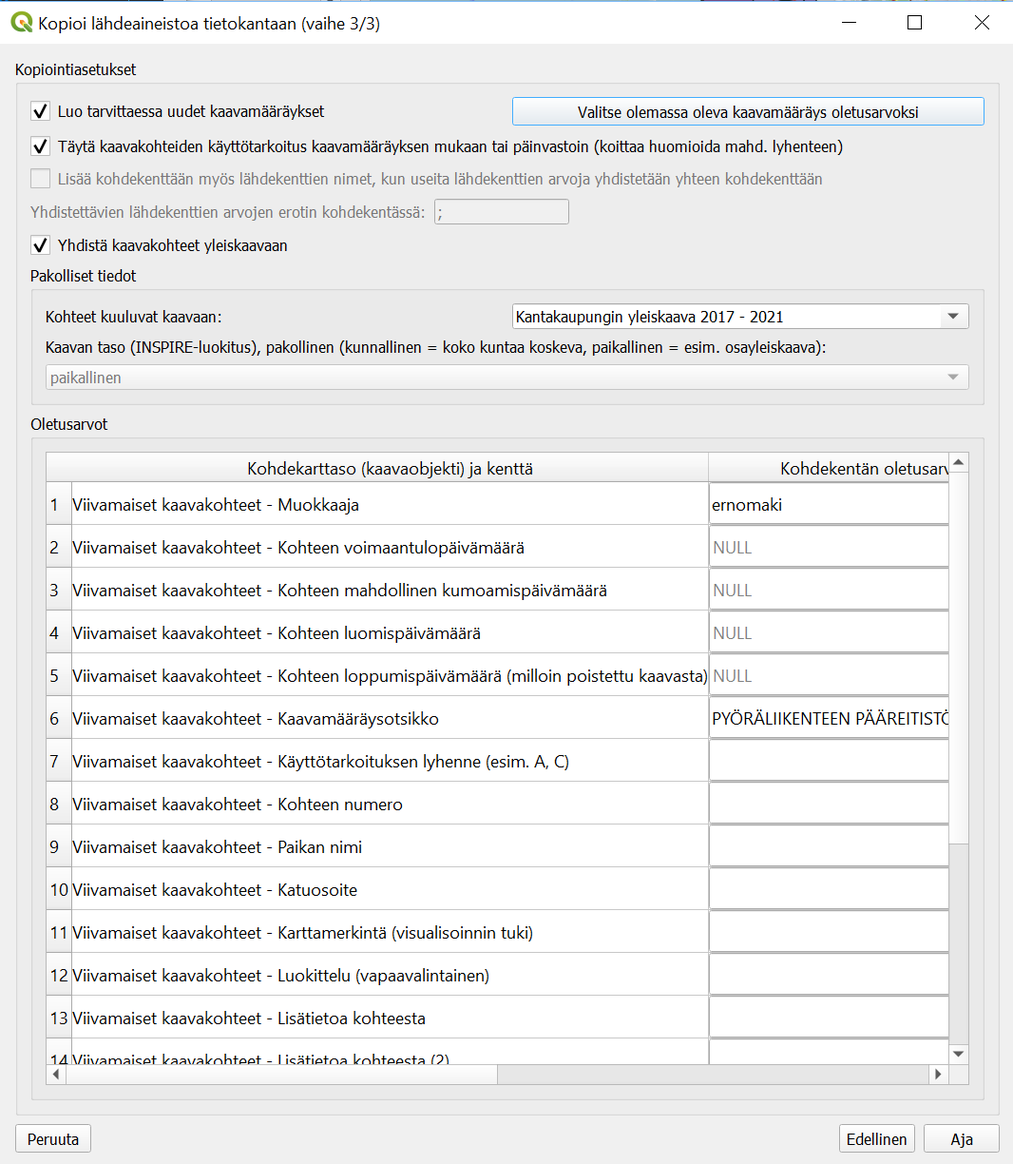
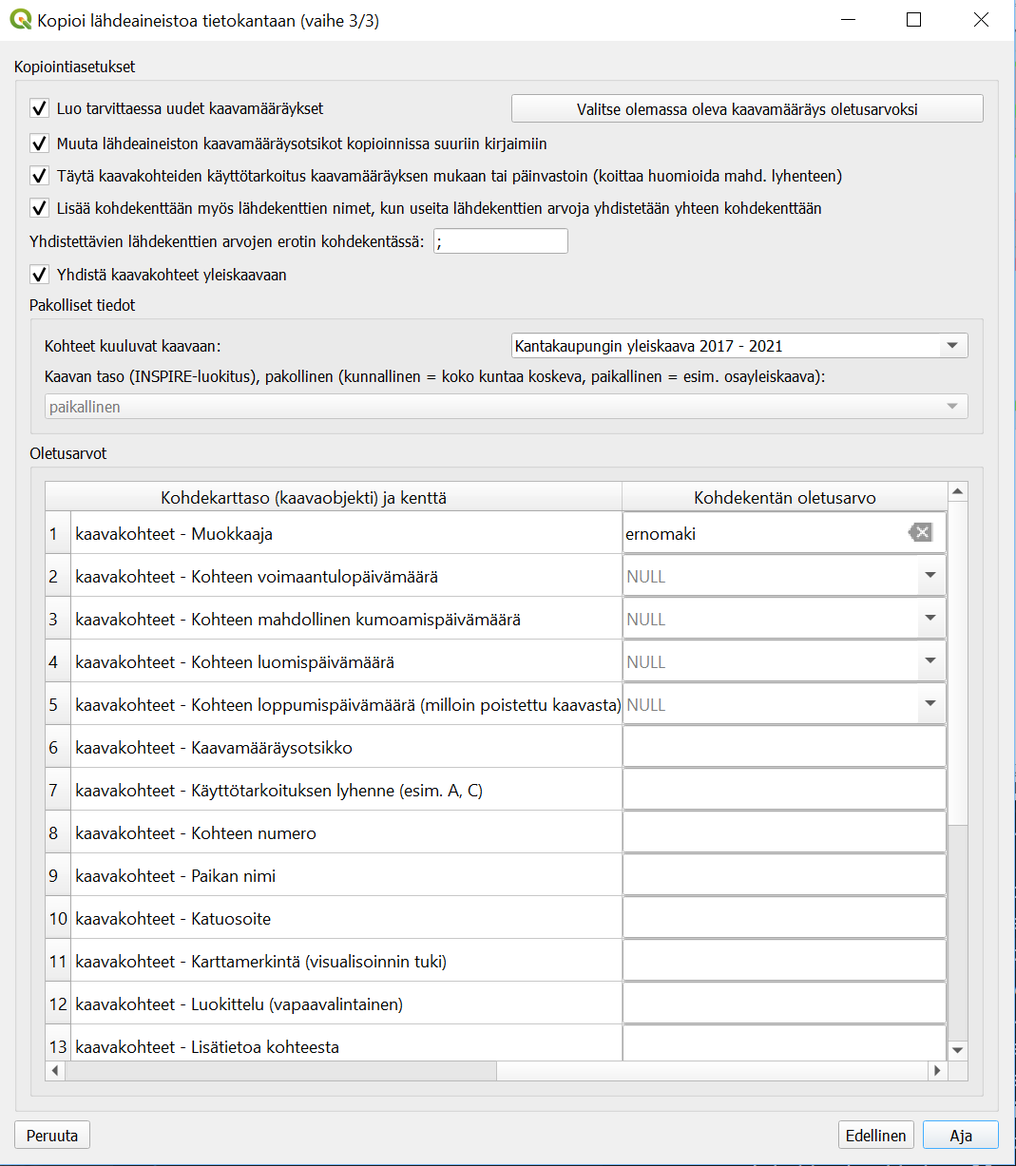
Paranna ohjeita

diff --git a/help/build/html/searchindex.js b/help/build/html/searchindex.js
@@ -1,1 +1,1 @@
-Search.setIndex({docnames:["index"],envversion:{"sphinx.domains.c":2,"sphinx.domains.changeset":1,"sphinx.domains.citation":1,"sphinx.domains.cpp":3,"sphinx.domains.index":1,"sphinx.domains.javascript":2,"sphinx.domains.math":2,"sphinx.domains.python":2,"sphinx.domains.rst":2,"sphinx.domains.std":1,"sphinx.ext.todo":2,"sphinx.ext.viewcode":1,sphinx:56},filenames:["index.rst"],objects:{},objnames:{},objtypes:{},terms:{"edell\u00e4":0,"edellytt\u00e4\u00e4":0,"edellytt\u00e4v\u00e4t":0,"esimerkiss\u00e4":0,"et\u00e4isyydelt\u00e4":0,"ett\u00e4":0,"hetkell\u00e4":0,"hyv\u00e4":0,"indeksiss\u00e4":0,"j\u00e4lkeen":0,"j\u00e4lkeisten":0,"j\u00e4t\u00e4t":0,"k\u00e4sittelyj\u00e4":0,"k\u00e4yt\u00f6ss\u00e4":0,"k\u00e4yt\u00f6st\u00e4":[],"k\u00e4ytt\u00e4j\u00e4":0,"k\u00e4ytt\u00e4j\u00e4lt\u00e4":[],"k\u00e4ytt\u00e4j\u00e4n":[],"k\u00e4ytt\u00e4m\u00e4\u00e4n":0,"k\u00e4ytt\u00e4misen":0,"k\u00e4ytt\u00e4v\u00e4t":0,"k\u00e4ytt\u00f6liittym\u00e4st\u00e4":0,"k\u00e4ytt\u00f6tarkoitu":0,"k\u00e4ytt\u00f6tarkoitukseen":0,"k\u00e4ytt\u00f6tarkoituksen":0,"k\u00e4ytt\u00f6tarkoitukset":0,"k\u00e4ytt\u00f6tarkoitusalueiden":0,"k\u00e4ytt\u00f6tarkoituslyhenteen":[],"k\u00e4ytt\u00f6tarkoituslyheteen":[],"k\u00e4ytt\u00f6tarkoitustyyppien":0,"kaavam\u00e4\u00e4r\u00e4i":0,"kaavam\u00e4\u00e4r\u00e4yksen":[],"kaavam\u00e4\u00e4r\u00e4ykset":0,"kaavam\u00e4\u00e4r\u00e4yksi\u00e4":0,"kaavam\u00e4\u00e4r\u00e4ysotsikkoa":0,"kaavam\u00e4\u00e4r\u00e4yst\u00e4":0,"kaavam\u00e4\u00e4r\u00e4ysten":0,"kent\u00e4n":0,"kent\u00e4t":0,"kentt\u00e4":0,"kohdekent\u00e4n":0,"kohdekent\u00e4t":0,"kohdekentt\u00e4\u00e4n":0,"konsultointivy\u00f6hykkeill\u00e4":0,"koordinaattij\u00e4rjestelm\u00e4":0,"koordinaattij\u00e4rjestelm\u00e4st\u00e4":0,"kyll\u00e4":0,"l\u00e4hdeaineiston":0,"l\u00e4hdekarttataso":0,"l\u00e4hdekarttatason":0,"l\u00e4hdekarttatasosta":0,"l\u00e4hdekent\u00e4n":0,"l\u00e4hdekentt\u00e4\u00e4":0,"l\u00e4hderajapinnan":0,"l\u00e4hdetason":0,"l\u00e4hdetaulusta":0,"l\u00e4hdetietoja":0,"l\u00e4hdetietosivulta":0,"l\u00e4ht\u00f6aineistokohteen":0,"l\u00e4ht\u00f6aineistokohteeseen":0,"l\u00e4ht\u00f6aineistolinkin":0,"l\u00e4ht\u00f6aineistolinkkien":0,"l\u00f6ytyi":0,"l\u00f6ytyv\u00e4":0,"liitty\u00e4":0,"liittyv\u00e4":0,"liittyv\u00e4n":0,"liittyv\u00e4t":0,"lis\u00e4\u00e4minen":0,"lis\u00e4ksi":0,"lis\u00e4t\u00e4":0,"lis\u00e4t\u00e4\u00e4n":0,"m\u00e4\u00e4ritellylt\u00e4":0,"muinaisj\u00e4\u00e4nn\u00f6skohteiden":0,"muinaisj\u00e4\u00e4nn\u00f6skohteilla":0,"my\u00f6":0,"my\u00f6hemmin":0,"n\u00e4et":0,"n\u00e4it\u00e4":0,"n\u00e4yt\u00e4":[],"niit\u00e4":0,"nime\u00e4\u00e4":0,"nimet\u00e4":0,"nimill\u00e4":0,"p\u00e4\u00e4limm\u00e4isin\u00e4":0,"p\u00e4ivit\u00e4":[],"p\u00e4ivitet\u00e4\u00e4n":0,"p\u00e4ivitett\u00e4v\u00e4t":0,"p\u00e4ivitt\u00e4\u00e4":0,"p\u00e4ivityksen":0,"p\u00e4ivityksess\u00e4":0,"p\u00e4ivitykset":0,"p\u00e4ivitystilann":0,"p\u00e4ivtyksen":0,"pidet\u00e4\u00e4nk\u00f6":0,"pistem\u00e4iset":0,"pit\u00e4\u00e4":0,"pit\u00e4isi":0,"pysty\u00e4":0,"s\u00e4ilym\u00e4\u00e4n":0,"s\u00e4ilyminen":0,"s\u00e4ilyt\u00e4":0,"s\u00e4ilytt\u00e4\u00e4":0,"s\u00e4ilytt\u00e4v\u00e4t":0,"sek\u00e4":0,"sill\u00e4":0,"sis\u00e4inen":0,"sis\u00e4ll\u00e4":0,"sit\u00e4":0,"st\u00e4":0,"t\u00e4ll\u00e4":0,"t\u00e4m\u00e4":0,"t\u00e4m\u00e4n":0,"t\u00e4ss\u00e4":0,"t\u00e4st\u00e4":0,"t\u00e4ydent\u00e4v\u00e4t":0,"t\u00e4ydent\u00e4vil":0,"tehd\u00e4":0,"tehd\u00e4\u00e4n":0,"tehd\u00e4\u00e4nk\u00f6":0,"teht\u00e4v\u00e4n":[],"teht\u00e4v\u00e4t":[],"tehtyj\u00e4":0,"tekem\u00e4t":0,"tekemem\u00e4st\u00e4":0,"tietyill\u00e4":0,"ty\u00f6kalu":0,"ty\u00f6tilaan":0,"ty\u00f6tilan":0,"ty\u00f6tilassa":0,"ty\u00f6tilasta":0,"tyhj\u00e4ksi":0,"v\u00e4hemm\u00e4n":0,"v\u00e4liin":0,"vieress\u00e4":0,"yhdist\u00e4\u00e4":0,"yleisi\u00e4":0,Jos:0,aakkosilla:0,aiheuttamat:[],aina:0,ainakin:0,aineistoa:0,aja:0,ajamisen:[],ajolla:[],aktivoitu:0,alkaa:0,aloittaaksesi:0,alueet:0,aluekohteet:0,aluekohteil:0,aluevaraukset:0,aluevarauksil:0,aluevarausten:0,alunperin:0,annetaan:0,arvo:0,arvoa:0,arvoja:[],arvon:0,arvot:0,asetettavat:0,asetettu:0,asettaa:0,asettanut:0,asetu:0,asetuksella:0,asetuksen:0,asetuksia:0,asetusta:0,attribuuttitailut:0,attribuuttitaulujen:0,attribuuttitaulun:0,attribuuttitaulusta:0,aukeaa:0,automaattinen:0,automaattisen:0,automaattisesti:0,avaa:0,avaamalla:0,avaamisen:0,avaamista:0,avaat:0,avannut:0,avattuna:0,avatuvien:0,avautuvasta:0,avulla:0,content:[],dialogi:0,dialogin:0,dialogissa:0,dialogista:0,dialogit:0,dokumentoida:0,edistymisen:0,eli:0,ennen:0,ensiksi:0,erilailla:0,erota:0,esim:0,esimerkiksi:0,esitetti:0,geometrisessa:0,haetaan:0,haluamansa:0,haluamiaan:0,haluamillesi:0,haluat:0,halutaan:0,halutesaan:0,halutessa:0,halutessasi:0,halutul:0,halutun:0,halutut:[],havaitse:0,hieman:0,huomaa:0,huomattu:0,huomioida:0,huomioidaan:0,huomioita:0,hyvin:0,ilmoitu:0,indeksi:0,indeksoinnin:0,indeksointeja:0,indeksointi:0,indeksoitujen:0,index:[],infoikkunasta:0,jaa:0,jaetuilla:0,jakaa:0,jakamisen:0,jakamisessa:0,jakamista:0,jako:0,jaon:0,johon:0,johonkin:0,joiden:0,joihin:0,joilloin:[],joitakin:0,joka:0,joll:0,jolla:0,jolloin:0,jolta:0,jos:0,jossa:0,jotkin:0,kaavakohd:0,kaavakohdekarttatasot:0,kaavakohdetasojen:0,kaavakohdetason:0,kaavakohteel:0,kaavakohteen:0,kaavakohteeseen:0,kaavakohteesta:0,kaavakohteet:0,kaavakohteiden:[],kaavakohteil:0,kaavakohteilla:0,kaavakohteilta:0,kaavakohteista:0,kaavamaaraysotsikko:0,kaavan:0,kaavaobjekti_kaavamaarays_yhtei:0,kaavatasol:0,kaikilla:0,kaikkea:0,kaksi:0,karttasolla:0,karttatasoja:0,karttatasojen:0,karttatasol:0,karttatasot:0,kasvattaa:0,katsoa:0,kautta:0,kayttotarkoitus_lyhenn:0,kemikaalilaitosten:0,kentil:0,kerralla:0,kirjaimesta:0,klikkaa:0,klikkaat:0,kohdasta:0,kohdekaavakohdetaulu:0,kohdekarttatasojen:0,kohdetaulujen:0,kohdetaulun:0,kohdetauluun:0,kohdetyypil:0,kohta:0,kohtaa:0,kohteel:0,kohteella:0,kohteen:0,kohteet:0,kohteiden:0,kohteil:0,kohteilla:0,kohteita:0,kohten:0,koitetaan:0,kokonaislukuindeksointi:0,kokonaisluvuilla:0,kopioida:0,kopioinnin:0,kopioinnissa:0,kopiointi:[],kopiointiasetuksia:0,kopioitavat:0,kopion:[],kopionti:0,koska:0,kuin:0,kuitenkaan:0,kuitenkin:0,kumoa:0,kun:0,kunkin:0,kuten:0,kuvassa:0,kuvattu:0,kuvauksen:0,leikkau:0,liittyi:0,listaa:0,lkm:0,loppuosa:0,luultavasti:0,lyhenn:0,lyhenteen:0,mahdollinen:0,mahdollisesti:0,mahdollista:0,mainituilla:0,miten:0,modul:[],muiden:0,muita:0,mukaan:0,mukaiset:0,mukana:0,muokattavien:0,muokkaa:0,muokkaukset:0,muokkauksia:0,mutta:0,muunnoksen:0,muutokset:[],muutoksia:0,niill:0,niin:0,nimi:0,normaalisti:0,numero:0,ohjeen:0,ohjeessa:0,ole:0,olet:0,olettaa:0,oletusarvon:0,oletusarvot:0,oleva:0,olevan:0,olevat:0,olevista:0,olisi:0,olla:0,ominaisuudella:0,ominaisuudet:0,ominaisuustietojen:0,onnistu:0,onnistuu:0,osa:0,osalta:0,otsikko:0,otsikon:0,ottaa:[],ovat:0,page:[],painaessa:0,painamista:0,painiketta:0,painikkeella:0,painikkeen:0,painikkeiden:0,painikkeilla:0,paitsi:[],pakollisil:0,paljon:0,pane:0,paneelin:0,paneelinen:0,paneelissa:0,perua:0,perusteella:0,piilossa:0,piilotettujakin:0,pistekohteil:0,poi:0,poista:0,poistaa:0,poistetaan:0,qgi:0,rajapinnalta:0,relaatioiden:0,relaatiot:0,riippuen:0,saa:0,saat:0,saattaa:0,samaan:0,samalla:0,samassa:0,search:[],sen:0,seuraa:0,seuraava:0,seuraavien:0,seuraavin:0,seurauksena:0,sii:0,siiri:0,sijaan:0,sijaitsevat:0,siksi:0,sill:0,silloin:0,silti:0,sitten:0,sm8:0,sulkea:0,suodatettu:0,suodattaa:0,suoraan:0,syntyneel:0,tai:0,tallennettu:0,tallennuksesta:0,tallentamista:0,tapaan:0,tapahdu:0,tapahtuu:0,tapahtuva:0,tapauksessa:0,tarkempia:0,tarkistaa:[],tarvits:0,tarvittaessa:0,tasoja:0,tasolla:0,tason:0,taulujen:0,taulun:0,taulussa:0,taulut:0,tee:0,teema:0,teemankin:0,teemat:0,teke:0,teknisesti:0,tekstin:0,tiedot:0,tietoja:0,tietokannan:0,tietokantayhtei:0,tietyn:0,tilanteessa:0,toimi:0,toimii:0,toiminnoista:0,toiminnolla:0,toiminnon:0,toiminnosta:0,toiminto:0,toimintoihin:0,toimintojen:0,toimitaan:0,toimivat:0,tosin:0,tulleita:0,tyylin:0,tyypit:0,useamman:0,usein:0,useita:0,uudel:0,uudelleen:0,uudet:0,uusi:0,uusia:0,uusil:0,vai:0,vaihein:0,vaihtaa:0,vaikka:0,vaikkapa:0,vaikuttaa:0,vaikutusta:0,vain:0,vakioalku:0,vakioalkuosa:0,valikon:0,valinnan:0,valinnut:0,valinta:0,valintaruutu:0,valita:0,valitaan:0,valits:0,valitse:0,valitsematta:0,valitsemiltasi:0,valittu:0,valittuasi:0,valituil:0,valituilla:0,valituksi:0,valmi:0,vanhat:0,vapaasti:0,varmasti:0,varmistaa:0,varmistetaan:[],varoittaa:0,vasta:0,vastaava:0,vastaavan:0,viiva:0,viivamaiset:0,visualisoida:0,visualisointityyli:0,voi:0,voidaan:[],voit:0,vuoksi:0,yhden:0,yhdistetyn:0,yhteensopivia:0,yleiskaaval:0,yleiskaavan:0},titles:["Yleiskaava-ty\u00f6kalun ohjeistus"],titleterms:{"kaaavam\u00e4\u00e4r\u00e4yksen":[],"kaavam\u00e4\u00e4r\u00e4yksen":0,"l\u00e4hdeaineistoa":0,"l\u00e4ht\u00f6aineistoihin":0,"liitt\u00e4minen":0,"linkkej\u00e4":0,"lis\u00e4\u00e4":0,"p\u00e4ivit\u00e4":0,"p\u00e4iviti":0,"ty\u00f6kalun":0,arvoja:0,asetukset:0,dokumentaatioon:[],geometrinen:0,indeksointia:0,indic:[],jakaminen:0,joukol:0,kaavakohdetasolla:0,kaavakohteiden:0,kaavakohteita:0,kenttien:0,kopioi:0,kopiointi:0,muokkau:0,ohj:0,ohjeistu:0,tabl:[],teeman:0,tervetuloa:[],tietokantaan:0,toiminnot:0,vaihda:0,yleiskaava:0}})
+Search.setIndex({docnames:["index"],envversion:{"sphinx.domains.c":2,"sphinx.domains.changeset":1,"sphinx.domains.citation":1,"sphinx.domains.cpp":3,"sphinx.domains.index":1,"sphinx.domains.javascript":2,"sphinx.domains.math":2,"sphinx.domains.python":2,"sphinx.domains.rst":2,"sphinx.domains.std":1,"sphinx.ext.todo":2,"sphinx.ext.viewcode":1,sphinx:56},filenames:["index.rst"],objects:{},objnames:{},objtypes:{},terms:{"edell\u00e4":0,"edellytt\u00e4\u00e4":0,"edellytt\u00e4v\u00e4t":0,"esimerkiss\u00e4":0,"et\u00e4isyydelt\u00e4":0,"ett\u00e4":0,"hetkell\u00e4":0,"hyv\u00e4":0,"indeksiss\u00e4":0,"j\u00e4lkeen":0,"j\u00e4lkeisten":0,"j\u00e4t\u00e4t":0,"k\u00e4sittelyj\u00e4":0,"k\u00e4yt\u00f6ss\u00e4":0,"k\u00e4yt\u00f6st\u00e4":[],"k\u00e4ytt\u00e4j\u00e4":0,"k\u00e4ytt\u00e4j\u00e4lt\u00e4":[],"k\u00e4ytt\u00e4j\u00e4n":[],"k\u00e4ytt\u00e4m\u00e4\u00e4n":0,"k\u00e4ytt\u00e4misen":0,"k\u00e4ytt\u00e4v\u00e4t":0,"k\u00e4ytt\u00f6liittym\u00e4st\u00e4":0,"k\u00e4ytt\u00f6tarkoitu":0,"k\u00e4ytt\u00f6tarkoitukseen":0,"k\u00e4ytt\u00f6tarkoituksen":0,"k\u00e4ytt\u00f6tarkoitukset":0,"k\u00e4ytt\u00f6tarkoitusalueiden":0,"k\u00e4ytt\u00f6tarkoituslyhennett\u00e4":0,"k\u00e4ytt\u00f6tarkoituslyhenteen":[],"k\u00e4ytt\u00f6tarkoituslyheteen":[],"k\u00e4ytt\u00f6tarkoitusta":0,"k\u00e4ytt\u00f6tarkoitustyyppien":0,"kaavam\u00e4\u00e4r\u00e4i":0,"kaavam\u00e4\u00e4r\u00e4yksen":[],"kaavam\u00e4\u00e4r\u00e4ykset":0,"kaavam\u00e4\u00e4r\u00e4yksi\u00e4":0,"kaavam\u00e4\u00e4r\u00e4yksil":0,"kaavam\u00e4\u00e4r\u00e4ysotsikko":0,"kaavam\u00e4\u00e4r\u00e4ysotsikkoa":0,"kaavam\u00e4\u00e4r\u00e4ysotsikon":0,"kaavam\u00e4\u00e4r\u00e4ysotsikot":0,"kaavam\u00e4\u00e4r\u00e4yst\u00e4":0,"kaavam\u00e4\u00e4r\u00e4ysten":0,"kent\u00e4n":0,"kent\u00e4st\u00e4":0,"kent\u00e4t":0,"kentt\u00e4":0,"kentt\u00e4\u00e4n":0,"kohdekent\u00e4n":0,"kohdekent\u00e4t":0,"kohdekentt\u00e4\u00e4n":0,"konsultointivy\u00f6hykkeill\u00e4":0,"koordinaattij\u00e4rjestelm\u00e4":0,"koordinaattij\u00e4rjestelm\u00e4st\u00e4":0,"kyll\u00e4":0,"l\u00e4hdeaineiston":0,"l\u00e4hdeaineistosta":0,"l\u00e4hdekarttataso":0,"l\u00e4hdekarttatason":0,"l\u00e4hdekarttatasosta":0,"l\u00e4hdekent\u00e4n":0,"l\u00e4hdekentt\u00e4\u00e4":0,"l\u00e4hdekenttien":0,"l\u00e4hderajapinnan":0,"l\u00e4hdetason":0,"l\u00e4hdetaulusta":0,"l\u00e4hdetietoja":0,"l\u00e4hdetietosivulta":0,"l\u00e4ht\u00f6aineistokohteen":0,"l\u00e4ht\u00f6aineistokohteeseen":0,"l\u00e4ht\u00f6aineistolinkin":0,"l\u00e4ht\u00f6aineistolinkkien":0,"l\u00f6ytyi":0,"l\u00f6ytyv\u00e4":0,"liitty\u00e4":0,"liittyv\u00e4":0,"liittyv\u00e4n":0,"liittyv\u00e4t":0,"lis\u00e4\u00e4minen":0,"lis\u00e4\u00e4mist\u00e4":0,"lis\u00e4ksi":0,"lis\u00e4t\u00e4":0,"lis\u00e4t\u00e4\u00e4n":0,"lis\u00e4tt\u00e4v\u00e4t":0,"lyhennett\u00e4":0,"m\u00e4\u00e4ritellylt\u00e4":0,"mit\u00e4":0,"muinaisj\u00e4\u00e4nn\u00f6skohteiden":0,"muinaisj\u00e4\u00e4nn\u00f6skohteilla":0,"my\u00f6":0,"my\u00f6hemmin":0,"n\u00e4et":0,"n\u00e4it\u00e4":0,"n\u00e4yt\u00e4":[],"niit\u00e4":0,"nime\u00e4\u00e4":0,"nimet\u00e4":0,"nimill\u00e4":0,"p\u00e4\u00e4limm\u00e4isin\u00e4":0,"p\u00e4invastoin":0,"p\u00e4ivit\u00e4":[],"p\u00e4ivitet\u00e4\u00e4n":0,"p\u00e4ivitett\u00e4v\u00e4t":0,"p\u00e4ivitt\u00e4\u00e4":0,"p\u00e4ivityksen":0,"p\u00e4ivityksess\u00e4":0,"p\u00e4ivitykset":0,"p\u00e4ivitystilann":0,"p\u00e4ivtyksen":0,"pidet\u00e4\u00e4nk\u00f6":0,"pistem\u00e4iset":0,"pit\u00e4\u00e4":0,"pit\u00e4isi":0,"pohjav\u00e4ri":0,"pysty\u00e4":0,"s\u00e4ilym\u00e4\u00e4n":0,"s\u00e4ilyminen":0,"s\u00e4ilyt\u00e4":0,"s\u00e4ilytt\u00e4\u00e4":0,"s\u00e4ilytt\u00e4v\u00e4t":0,"sek\u00e4":0,"sill\u00e4":0,"sis\u00e4inen":0,"sis\u00e4ll\u00e4":0,"sit\u00e4":0,"st\u00e4":0,"t\u00e4ll\u00e4":0,"t\u00e4m\u00e4":0,"t\u00e4m\u00e4n":0,"t\u00e4ss\u00e4":0,"t\u00e4st\u00e4":0,"t\u00e4ydent\u00e4v\u00e4t":0,"t\u00e4ydent\u00e4vil":0,"t\u00e4yt\u00e4":0,"t\u00e4ytet\u00e4\u00e4n":0,"tehd\u00e4":0,"tehd\u00e4\u00e4n":0,"tehd\u00e4\u00e4nk\u00f6":[],"teht\u00e4v\u00e4n":[],"teht\u00e4v\u00e4t":[],"tehtyj\u00e4":0,"tekem\u00e4t":0,"tekemem\u00e4st\u00e4":0,"tietyill\u00e4":0,"ty\u00f6kalu":0,"ty\u00f6tilaa":0,"ty\u00f6tilaan":0,"ty\u00f6tilan":0,"ty\u00f6tilassa":0,"ty\u00f6tilasta":0,"tyhj\u00e4ksi":0,"v\u00e4hemm\u00e4n":0,"v\u00e4liin":0,"vieress\u00e4":0,"yhdist\u00e4":0,"yhdist\u00e4\u00e4":0,"yhdistet\u00e4\u00e4n":0,"yleisi\u00e4":0,Jos:0,aakkosilla:0,aiheuttamat:[],aina:0,ainakin:0,aineistoa:0,aja:0,ajamisen:[],ajolla:[],aktivoitu:0,alkaa:0,aloittaaksesi:0,alueet:0,aluekohteet:0,aluekohteil:0,aluevaraukset:0,aluevarauksil:0,aluevarausten:0,alunperin:0,annetaan:0,arvo:0,arvoa:0,arvoja:[],arvojen:0,arvoksi:0,arvon:0,arvot:0,asetettavat:0,asetettu:0,asettaa:0,asettanut:0,asetu:0,asetuksella:0,asetuksen:0,asetuksessa:0,asetuksia:0,asetusta:0,attribuuttitailut:0,attribuuttitaulujen:0,attribuuttitaulun:0,attribuuttitaulusta:0,aukeaa:0,automaattinen:0,automaattisen:0,automaattisesti:0,avaa:0,avaamalla:0,avaamisen:0,avaamista:0,avaat:0,avannut:0,avattuna:0,avatuvien:0,avautuvasta:0,avulla:0,content:[],dialogi:0,dialogin:0,dialogissa:0,dialogista:0,dialogit:0,dokumentoida:0,edistymisen:0,eli:0,ennen:0,ensiksi:0,erilailla:0,erota:0,esim:0,esimerkiksi:0,esitetti:0,geometrisessa:0,haetaan:0,hakea:0,haluamansa:0,haluamiaan:0,haluamillesi:0,haluat:0,halutaan:0,halutesaan:0,halutessa:0,halutessasi:0,halutul:0,halutun:0,halutut:[],havaitse:0,helposti:0,hieman:0,huomaa:0,huomattu:0,huomioida:0,huomioidaan:0,huomioita:0,hyvin:0,ilmoitu:0,indeksi:0,indeksoinnin:0,indeksointeja:0,indeksointi:0,indeksoitujen:0,index:[],infoikkunasta:0,isoihin:0,isoilla:0,jaa:0,jaetuilla:0,jakaa:0,jakamisen:0,jakamisessa:0,jakamista:0,jako:0,jaon:0,johon:0,johonkin:0,joiden:0,joihin:0,joilloin:[],joitakin:0,joka:0,joll:0,jolla:0,jolloin:0,jolta:0,jos:0,jossa:0,jotkin:0,kaavakohd:0,kaavakohdekarttatasot:0,kaavakohdetasojen:0,kaavakohdetason:0,kaavakohteel:0,kaavakohteen:0,kaavakohteeseen:0,kaavakohteesta:0,kaavakohteet:0,kaavakohteiden:[],kaavakohteil:0,kaavakohteilla:0,kaavakohteilta:0,kaavakohteista:0,kaavamaaraysotsikko:0,kaavan:0,kaavaobjekti_kaavamaarays_yhtei:0,kaavatasol:0,kaikilla:0,kaikkea:0,kaksi:0,kanssa:0,karttasolla:0,karttatasoja:0,karttatasojen:0,karttatasol:0,karttatasot:0,kasvattaa:0,katsoa:0,kautta:0,kayttotarkoitus_lyhenn:0,kemikaalilaitosten:0,kentil:0,kenttiin:0,kerralla:0,kirjaimesta:0,kirjaimiin:0,kirjaimilla:0,klikkaa:0,klikkaat:0,kohdasta:0,kohdeaineistol:0,kohdeaineiston:0,kohdekaavakohdetaulu:0,kohdekarttatasojen:0,kohdekarttatason:0,kohdetaulujen:0,kohdetaulun:0,kohdetauluun:0,kohdetyypil:0,kohta:0,kohtaa:0,kohteel:0,kohteella:0,kohteen:0,kohteet:0,kohteiden:0,kohteil:0,kohteilla:0,kohteita:0,kohten:0,koitetaan:0,koittaa:0,kokonaislukuindeksointi:0,kokonaisluvuilla:0,kopioida:0,kopioinnin:0,kopioinnissa:0,kopiointi:[],kopiointiasetuksia:0,kopioitavat:0,kopion:[],kopionti:0,koska:0,kuin:0,kuitenkaan:0,kuitenkin:0,kumoa:0,kun:0,kunkin:0,kuten:0,kuvassa:0,kuvattu:0,kuvauksen:0,leikkau:0,liittyi:0,listaa:0,lkm:0,loppuosa:0,luo:0,luomisessa:0,luultavasti:0,lyhenn:0,lyhenteen:0,mahd:0,mahdollinen:0,mahdollisen:0,mahdollisesti:0,mahdollista:0,mainituilla:0,miten:0,modul:[],molempiin:0,muiden:0,muita:0,mukaan:0,mukaiset:0,mukana:0,muokattavien:0,muokkaa:0,muokkaukset:0,muokkauksia:0,mutta:0,muunnoksen:0,muuta:0,muutetaan:0,muutokset:[],muutoksia:0,niill:0,niin:0,nimet:0,nimi:0,normaalisti:0,numero:0,ohjeen:0,ohjeessa:0,ole:0,olemassa:0,olet:0,olettaa:0,oletusarvo:0,oletusarvoiksi:0,oletusarvoksi:0,oletusarvon:0,oletusarvot:0,oleva:0,olevan:0,olevat:0,olevista:0,olisi:0,olla:0,ominaisuudella:0,ominaisuudet:0,ominaisuustietojen:0,onnistu:0,onnistuu:0,osa:0,osalta:0,osataan:0,otsikko:0,otsikon:0,ottaa:[],ovat:0,page:[],painaessa:0,painamista:0,painiketta:0,painikkeella:0,painikkeen:0,painikkeiden:0,painikkeilla:0,paitsi:[],pakollisil:0,paljon:0,pane:0,paneelin:0,paneelinen:0,paneelissa:0,perua:0,perusteella:0,piilossa:0,piilotettujakin:0,pistekohteil:0,poi:0,poista:0,poistaa:0,poistetaan:0,punainen:0,qgi:0,rajapinnalta:0,relaatioiden:0,relaatiot:0,riippuen:0,saa:0,saat:0,saattaa:0,samaan:0,samalla:0,samassa:0,search:[],sen:0,seuraa:0,seuraava:0,seuraavien:0,seuraavin:0,seurauksena:0,sii:0,siiri:0,sijaan:0,sijaitsevat:0,siksi:0,sill:0,silloin:0,silti:0,sitten:0,sm8:0,sulkea:0,suodatettu:0,suodattaa:0,suoraan:0,suuriin:0,syntyneel:0,tai:0,tallennettu:0,tallennuksesta:0,tallentamista:0,tapaan:0,tapahdu:0,tapahtuu:0,tapahtuva:0,tapauksessa:0,tarkempia:0,tarkistaa:[],tarvits:0,tarvittaessa:0,tasoja:0,tasolla:0,tason:0,taulujen:0,taulun:0,taulussa:0,taulut:0,tee:0,teema:0,teemankin:0,teemat:0,teke:0,teknisesti:0,tekstin:0,tiedot:0,tietoja:0,tietokannan:0,tietokanta:0,tietokantaa:0,tietokantayhtei:0,tietyn:0,tilanteessa:0,toimi:0,toimii:0,toiminnoista:0,toiminnolla:0,toiminnon:0,toiminnosta:0,toiminto:0,toimintoihin:0,toimintojen:0,toimitaan:0,toimivat:0,tosin:0,tule:0,tulleita:0,tuotaessa:0,tuotava:0,tuotavan:0,tuotavien:0,tyylin:0,tyypit:0,useamman:0,useasta:0,usein:0,useita:0,uudel:0,uudelleen:0,uuden:0,uudet:0,uusi:0,uusia:0,uusil:0,vai:0,vaihein:0,vaihtaa:0,vaikka:0,vaikkapa:0,vaikuttaa:0,vaikutusta:0,vain:0,vakioalku:0,vakioalkuosa:0,valikon:0,valinnan:0,valinnut:0,valinta:0,valintaruutu:0,valita:0,valitaan:0,valits:0,valitse:0,valitsematta:0,valitsemiltasi:0,valittu:0,valittuasi:0,valittuna:0,valittuun:0,valituil:0,valituilla:0,valituksi:0,valmi:0,vanhat:0,vapaasti:0,varmasti:0,varmistaa:0,varmistetaan:[],varoittaa:0,vasta:0,vastaa:0,vastaava:0,vastaavan:0,viiva:0,viivamaiset:0,visualisoida:0,visualisointityyli:0,voi:0,voidaan:0,voit:0,vuoksi:0,yhden:0,yhdistetyn:0,yhteen:0,yhteensopivia:0,yleiskaavaan:0,yleiskaaval:0,yleiskaavan:0},titles:["Yleiskaava-ty\u00f6kalun ohjeistus"],titleterms:{"kaaavam\u00e4\u00e4r\u00e4yksen":[],"kaavam\u00e4\u00e4r\u00e4yksen":0,"l\u00e4hdeaineistoa":0,"l\u00e4ht\u00f6aineistoihin":0,"liitt\u00e4minen":0,"linkkej\u00e4":0,"lis\u00e4\u00e4":0,"p\u00e4ivit\u00e4":0,"p\u00e4iviti":0,"ty\u00f6kalun":0,arvoja:0,asetukset:0,dokumentaatioon:[],geometrinen:0,indeksointia:0,indic:[],jakaminen:0,joukol:0,kaavakohdetasolla:0,kaavakohteiden:0,kaavakohteita:0,kenttien:0,kopioi:0,kopiointi:0,muokkau:0,ohj:0,ohjeistu:0,tabl:[],teeman:0,tervetuloa:[],tietokantaan:0,toiminnot:0,vaihda:0,yleiskaava:0}})

diff --git a/help/build/html/index.html b/help/build/html/index.html
@@ -67,10 +67,19 @@
 <img alt="_images/kopiointi_d2.png" src="_images/kopiointi_d2.png" />
 </div>
 </li>
-<li><p>Valitse tarvittaessa oletusarvot pakollisille kohdetaulujen kentille ja mahdollisesti muita kopiointiasetuksia, kuten tehdäänkö kaavamääräysotsikkoa vastaava kaavamääräys, jos sitä ei jo ole. Klikkaa Aja-painiketta aloittaaksesi lähdekarttatason kohteiden kopioinnin yleiskaavan tietokantaan.</p>
+<li><p>Valitse tarvittaessa oletusarvot pakollisille kohdetaulujen kentille ja mahdollisesti muita kopiointiasetuksia.</p>
 <div class="figure align-default">
 <img alt="_images/kopiointi_d3.png" src="_images/kopiointi_d3.png" />
 </div>
+<p>Asetuksia:</p>
+<ul class="simple">
+<li><p>Jos “Luo tarvittaessa uudet kaavamääräykset”-kohta on valittuna, niin lähdeaineiston kaavamääräysotsikkoa vastaava kaavamääräys tehdään, jos sitä ei jo ole.</p></li>
+<li><p>Jos “Muuta lähdeaineiston kaavamääräysotsikot kopioinnissa suuriin kirjaimiin”-kohta on valittuna, niin lähdeaineistosta mahdollisesti tuotava kaavamääräysotsikko muutetaan isoihin kirjaimiin ennen kohdekarttatason kaavamaaraysotsikko- ja kayttotarkoitus_lyhenne-kenttiin lisäämistä. Myös mahdollisen uuden kaavamääräyksen luomisessa huomioidaan, että kaavamääräyksen otsikko tulee isoilla kirjaimilla.</p></li>
+<li><p>Jos “Täytä kaavakohteiden käyttötarkoitus kaavamääräyksen mukaan tai päinvastoin (koittaa huomioida mahd. lyhenteen)”-kohta on valittuna, niin lähdeaineistosta kaavamääräystä tai käyttötarkoituslyhennettä tuotaessa kohdeaineiston kaavamaaraysotsikko- ja kayttotarkoitus_lyhenne-kenttiin lisätään molempiin arvo. Jos kayttotarkoitus_lyhenne-kenttään osataan lisätä kaavamääräysotsikon perusteella lyhenne, niin se lisätään. Jos tuotavan lähdeaineiston kohteella ei ole kaavamääräysotsikkoa tai käyttötarkoitusta / lyhennettä, niin silloin myös oletusarvon asetuksessa kohdeaineistolle täytetään kaavamaaraysotsikko- ja kayttotarkoitus_lyhenne-kenttiin arvot sen mukaan mitä ko. oletusarvoiksi on asetettu. “Valitse olemassa oleva kaavamääräys oletusarvoksi”-painikkeella voidaan helposti hakea kohdeaineiston kaavamääräyksille oletusarvo</p></li>
+<li><p>Jos “Lisää kohdekenttään myös lähdekenttien nimet, kun useita lähdekenttien arvoja yhdistetään yhteen kohdekenttään”-kohta on valittuna, niin mahdollisesti useasta lähdeaineiston kentästä yhteen kohdeaineiston kenttään tuotavien arvojen kanssa lisätään arvoksi myös lähdeaineiston kentän nimi</p></li>
+<li><p>Jos “Yhdistä kaavakohteet yleiskaavaan”-kohta on valittuna, niin lähdeaineistosta yleiskaavan tietokantaan lisättävät kohteet yhdistetään valittuun yleiskaavaan</p></li>
+</ul>
+<p>Klikkaa Aja-painiketta aloittaaksesi lähdekarttatason kohteiden kopioinnin yleiskaavan tietokantaan.</p>
 </li>
 <li><p>Jos aineistoa on paljon, niin näet avautuvasta dialogista kopioinnin edistymisen. Kun kopiointi on valmis, niin tästä annetaan ilmoitus.</p></li>
 </ol>
@@ -153,7 +162,7 @@
 <p>Asetukset-dialogissa on tällä hetkellä vain kaksi asetusta:</p>
 <ul class="simple">
 <li><p>Asetus, jolla voi valita pidetäänkö toimintoihin liittyvät dialogit päälimmäisinä vai ei</p></li>
-<li><p>Asetus, jolla valitaan QGIS-työtilaan liittyvä tietokantayhteys</p></li>
+<li><p>Asetus, jolla valitaan QGIS-työtilaan liittyvä tietokantayhteys. Jos tietokantaa ei ole valittu tai valittu tietokanta ei vastaa QGIS-työtilaa, niin asetus-painikkeen pohjaväri on punainen.</p></li>
 </ul>
 </div>
 <div class="section" id="ohje">

diff --git a/help/source/index.rst b/help/source/index.rst
@@ -42,9 +42,19 @@ Kopiointi lähdekarttatasosta yleiskaavan tietokantaan onnistuu seuraavin vaihei
 
    .. figure:: images/kopiointi_d2.png
 
-#. Valitse tarvittaessa oletusarvot pakollisille kohdetaulujen kentille ja mahdollisesti muita kopiointiasetuksia, kuten tehdäänkö kaavamääräysotsikkoa vastaava kaavamääräys, jos sitä ei jo ole. Klikkaa Aja-painiketta aloittaaksesi lähdekarttatason kohteiden kopioinnin yleiskaavan tietokantaan.
-  
+#. Valitse tarvittaessa oletusarvot pakollisille kohdetaulujen kentille ja mahdollisesti muita kopiointiasetuksia.
+
    .. figure:: images/kopiointi_d3.png
+
+   Asetuksia:
+
+   * Jos "Luo tarvittaessa uudet kaavamääräykset"-kohta on valittuna, niin lähdeaineiston kaavamääräysotsikkoa vastaava kaavamääräys tehdään, jos sitä ei jo ole.
+   * Jos "Muuta lähdeaineiston kaavamääräysotsikot kopioinnissa suuriin kirjaimiin"-kohta on valittuna, niin lähdeaineistosta mahdollisesti tuotava kaavamääräysotsikko muutetaan isoihin kirjaimiin ennen kohdekarttatason kaavamaaraysotsikko- ja kayttotarkoitus_lyhenne-kenttiin lisäämistä. Myös mahdollisen uuden kaavamääräyksen luomisessa huomioidaan, että kaavamääräyksen otsikko tulee isoilla kirjaimilla.
+   * Jos "Täytä kaavakohteiden käyttötarkoitus kaavamääräyksen mukaan tai päinvastoin (koittaa huomioida mahd. lyhenteen)"-kohta on valittuna, niin lähdeaineistosta kaavamääräystä tai käyttötarkoituslyhennettä tuotaessa kohdeaineiston kaavamaaraysotsikko- ja kayttotarkoitus_lyhenne-kenttiin lisätään molempiin arvo. Jos kayttotarkoitus_lyhenne-kenttään osataan lisätä kaavamääräysotsikon perusteella lyhenne, niin se lisätään. Jos tuotavan lähdeaineiston kohteella ei ole kaavamääräysotsikkoa tai käyttötarkoitusta / lyhennettä, niin silloin myös oletusarvon asetuksessa kohdeaineistolle täytetään kaavamaaraysotsikko- ja kayttotarkoitus_lyhenne-kenttiin arvot sen mukaan mitä ko. oletusarvoiksi on asetettu. "Valitse olemassa oleva kaavamääräys oletusarvoksi"-painikkeella voidaan helposti hakea kohdeaineiston kaavamääräyksille oletusarvo
+   * Jos "Lisää kohdekenttään myös lähdekenttien nimet, kun useita lähdekenttien arvoja yhdistetään yhteen kohdekenttään"-kohta on valittuna, niin mahdollisesti useasta lähdeaineiston kentästä yhteen kohdeaineiston kenttään tuotavien arvojen kanssa lisätään arvoksi myös lähdeaineiston kentän nimi
+   * Jos "Yhdistä kaavakohteet yleiskaavaan"-kohta on valittuna, niin lähdeaineistosta yleiskaavan tietokantaan lisättävät kohteet yhdistetään valittuun yleiskaavaan 
+
+   Klikkaa Aja-painiketta aloittaaksesi lähdekarttatason kohteiden kopioinnin yleiskaavan tietokantaan.
 
 #. Jos aineistoa on paljon, niin näet avautuvasta dialogista kopioinnin edistymisen. Kun kopiointi on valmis, niin tästä annetaan ilmoitus.
 
@@ -141,7 +151,7 @@ Asetukset
 Asetukset-dialogissa on tällä hetkellä vain kaksi asetusta:
 
 * Asetus, jolla voi valita pidetäänkö toimintoihin liittyvät dialogit päälimmäisinä vai ei
-* Asetus, jolla valitaan QGIS-työtilaan liittyvä tietokantayhteys
+* Asetus, jolla valitaan QGIS-työtilaan liittyvä tietokantayhteys. Jos tietokantaa ei ole valittu tai valittu tietokanta ei vastaa QGIS-työtilaa, niin asetus-painikkeen pohjaväri on punainen.
 
 Ohje
 ....
